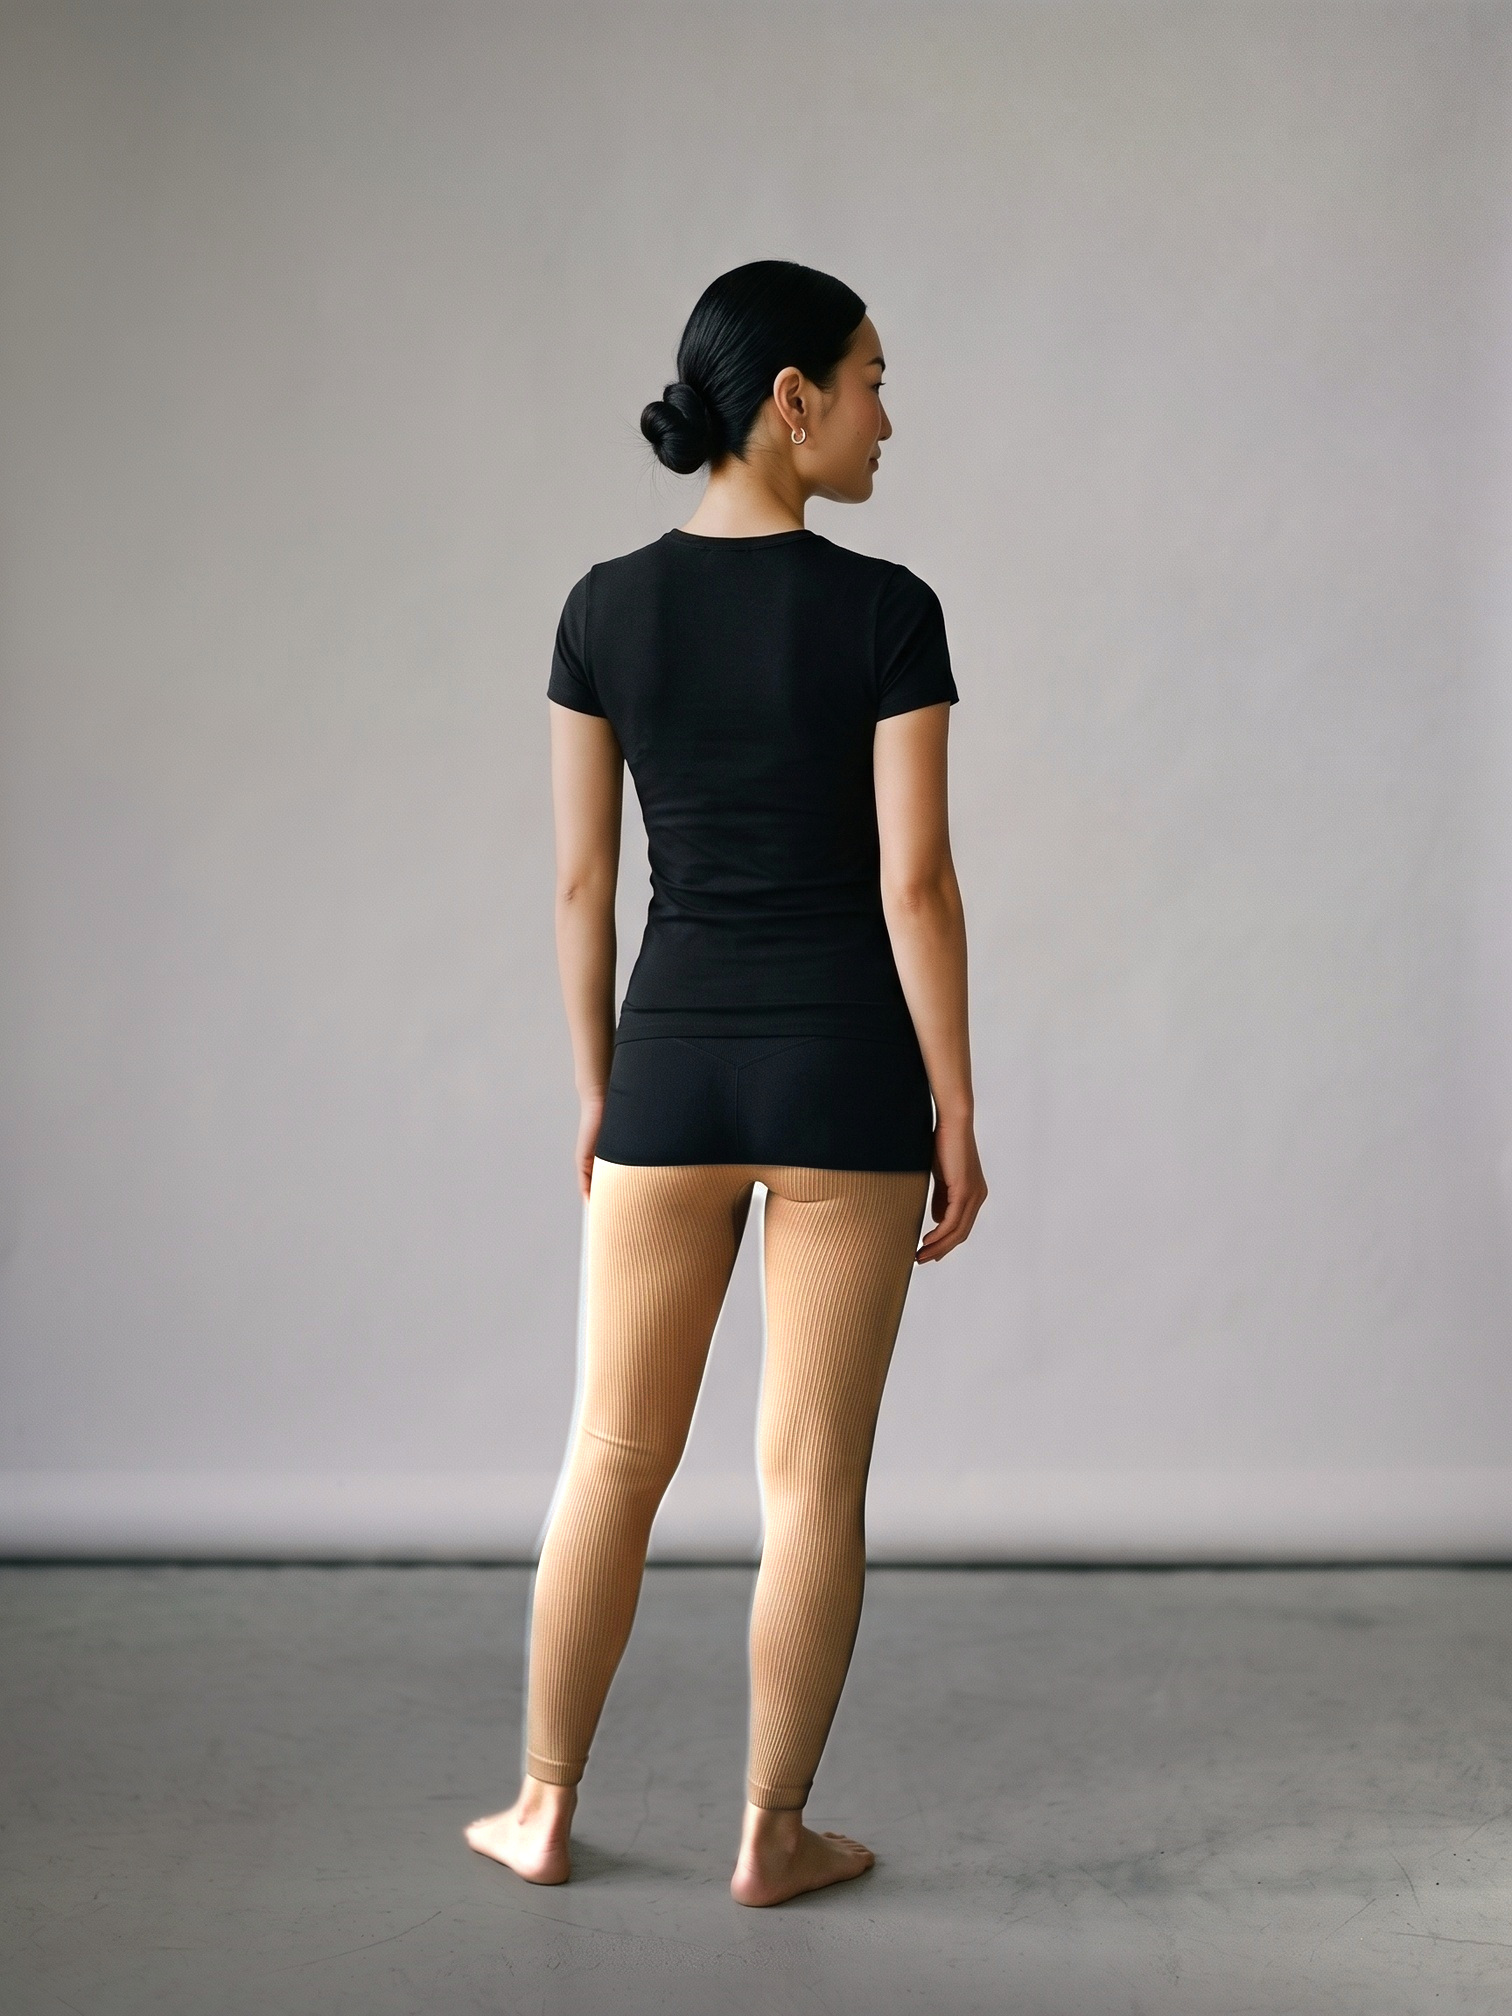
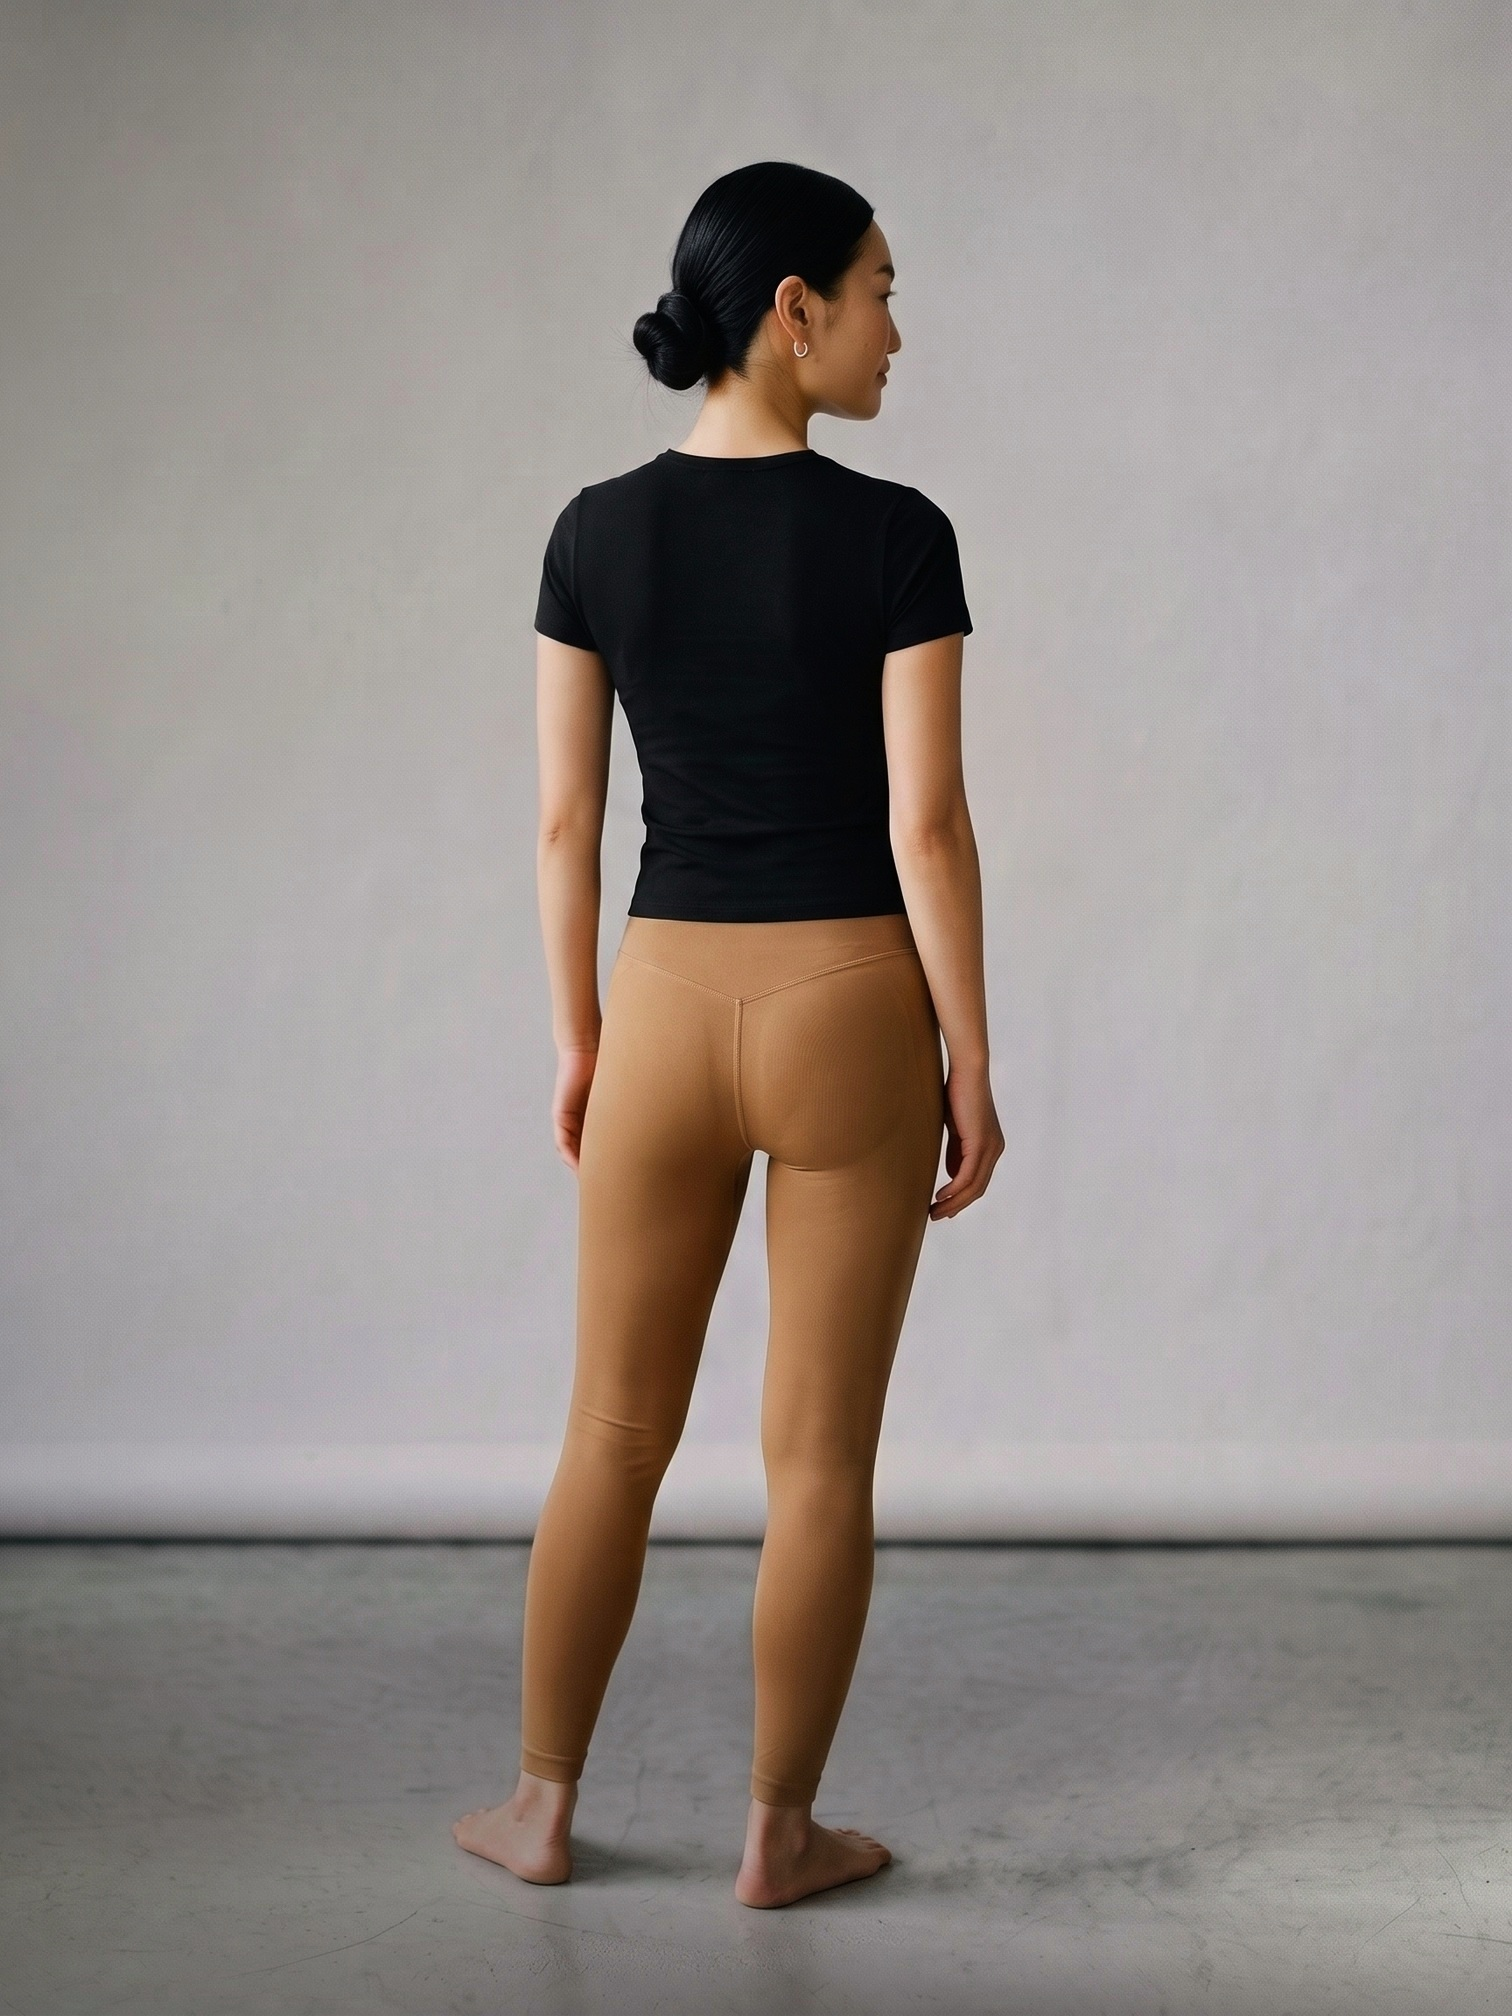
Ship fixed Sand legging photos (clear tan/camel, no more skin-tone ambiguity), products.js?v=41

Changed region(s): [[0.0, 0.0625, 1.0, 1.0], [0.8393, 0.9062, 0.9325, 0.9375]]

diff --git a/assets/products.js b/assets/products.js
@@ -80,7 +80,7 @@ window.COVERLINE_PRODUCTS = [
     care: "Seamless stretch knit. Machine wash cold, hang or lay flat to dry. Skip the tumble dryer — it\'s what kills the stretch in every pair you\'ve owned before.",
     colors: [
       { key: "black", label: "Black", hex: "#25272a", image: "/assets/product-images/legging-black.jpg?v=39", images: ["/assets/product-images/legging-black.jpg?v=39", "/assets/product-images/legging-black-proof.jpg?v=39", "/assets/product-images/legging-black-back.jpg?v=39", "/assets/product-images/legging-black-detail.jpg?v=39"] },
-      { key: "nude", label: "Sand", hex: "#c9a888", image: "/assets/product-images/legging-nude.jpg?v=39", images: ["/assets/product-images/legging-nude.jpg?v=39", "/assets/product-images/legging-nude-proof.jpg?v=39", "/assets/product-images/legging-nude-back.jpg?v=39", "/assets/product-images/legging-nude-detail.jpg?v=39"] }
+      { key: "nude", label: "Sand", hex: "#c9a888", image: "/assets/product-images/legging-nude.jpg?v=41", images: ["/assets/product-images/legging-nude.jpg?v=41", "/assets/product-images/legging-nude-proof.jpg?v=41", "/assets/product-images/legging-nude-back.jpg?v=41", "/assets/product-images/legging-nude-detail.jpg?v=41"] }
     ],
     image: "/assets/product-images/legging-black.jpg?v=39",
     swatch: function(){ return '<rect width="300" height="400" fill="var(--paper-raised)"/><path d="M0,240 C 100,300 200,200 300,260 L300,400 L0,400 Z" fill="var(--accent-2)" opacity=".5"/><path d="M0,150 C 110,90 190,210 300,160" fill="none" stroke="var(--accent)" stroke-width="1"/>'; }

diff --git a/product.html b/product.html
@@ -75,7 +75,7 @@
   </div>
 </footer>
 
-<script src="/assets/products.js?v=40"></script>
+<script src="/assets/products.js?v=41"></script>
 <script src="/assets/sizecharts.js?v=2"></script>
 <script src="/assets/reviews.js?v=1"></script>
 <script src="/assets/config.js?v=4"></script>

diff --git a/index.html b/index.html
@@ -100,7 +100,7 @@
   </div>
 </footer>
 
-<script src="/assets/products.js?v=40"></script>
+<script src="/assets/products.js?v=41"></script>
 <script src="/assets/config.js?v=4"></script>
 <script src="/assets/cart.js?v=10"></script>
 <script>

diff --git a/review.html b/review.html
@@ -74,7 +74,7 @@
   </div>
 </footer>
 
-<script src="/assets/products.js?v=40"></script>
+<script src="/assets/products.js?v=41"></script>
 <script src="/assets/config.js?v=4"></script>
 <script src="/assets/cart.js?v=10"></script>
 <script>

diff --git a/404.html b/404.html
@@ -46,7 +46,7 @@
   </div>
 </footer>
 
-<script src="/assets/products.js?v=40"></script>
+<script src="/assets/products.js?v=41"></script>
 <script src="/assets/config.js?v=4"></script>
 <script src="/assets/cart.js?v=10"></script>
 </body>

diff --git a/privacy.html b/privacy.html
@@ -85,7 +85,7 @@
   </div>
 </footer>
 
-<script src="/assets/products.js?v=40"></script>
+<script src="/assets/products.js?v=41"></script>
 <script src="/assets/config.js?v=4"></script>
 <script src="/assets/cart.js?v=10"></script>
 </body>

diff --git a/shipping-returns.html b/shipping-returns.html
@@ -78,7 +78,7 @@
   </div>
 </footer>
 
-<script src="/assets/products.js?v=40"></script>
+<script src="/assets/products.js?v=41"></script>
 <script src="/assets/config.js?v=4"></script>
 <script src="/assets/cart.js?v=10"></script>
 </body>

diff --git a/terms.html b/terms.html
@@ -92,7 +92,7 @@
   </div>
 </footer>
 
-<script src="/assets/products.js?v=40"></script>
+<script src="/assets/products.js?v=41"></script>
 <script src="/assets/config.js?v=4"></script>
 <script src="/assets/cart.js?v=10"></script>
 </body>
